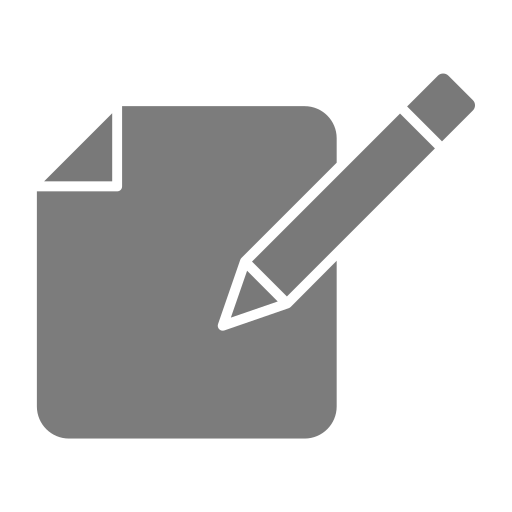
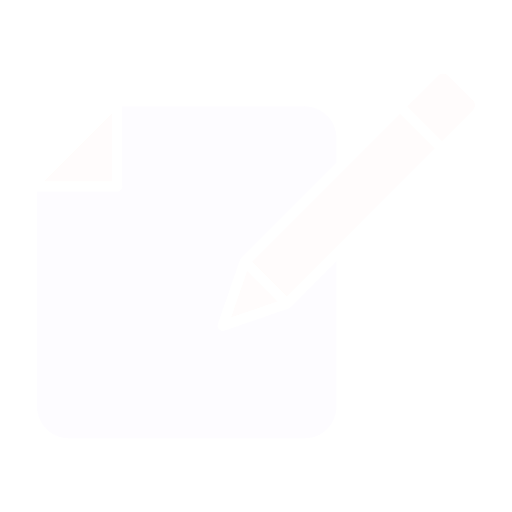
Add files via upload

diff --git a/index.html b/index.html
@@ -57,7 +57,7 @@
     <hr class="devider">
 
     <footer>
-        @Mr. Zamric
+        <a href="https://github.dev/Shoshy7/anilist/blob/main/index.html" class="edit"><img src="edit.png"></a>
     </footer>
 </body>
 

diff --git a/style.css b/style.css
@@ -58,6 +58,10 @@ footer {
     background-color: rgb(170, 170, 170);
 }
 
+.edit {
+    text-align: right;
+}
+
 /*---------------------Body/Div/Section-----------------*/
 
 body {
